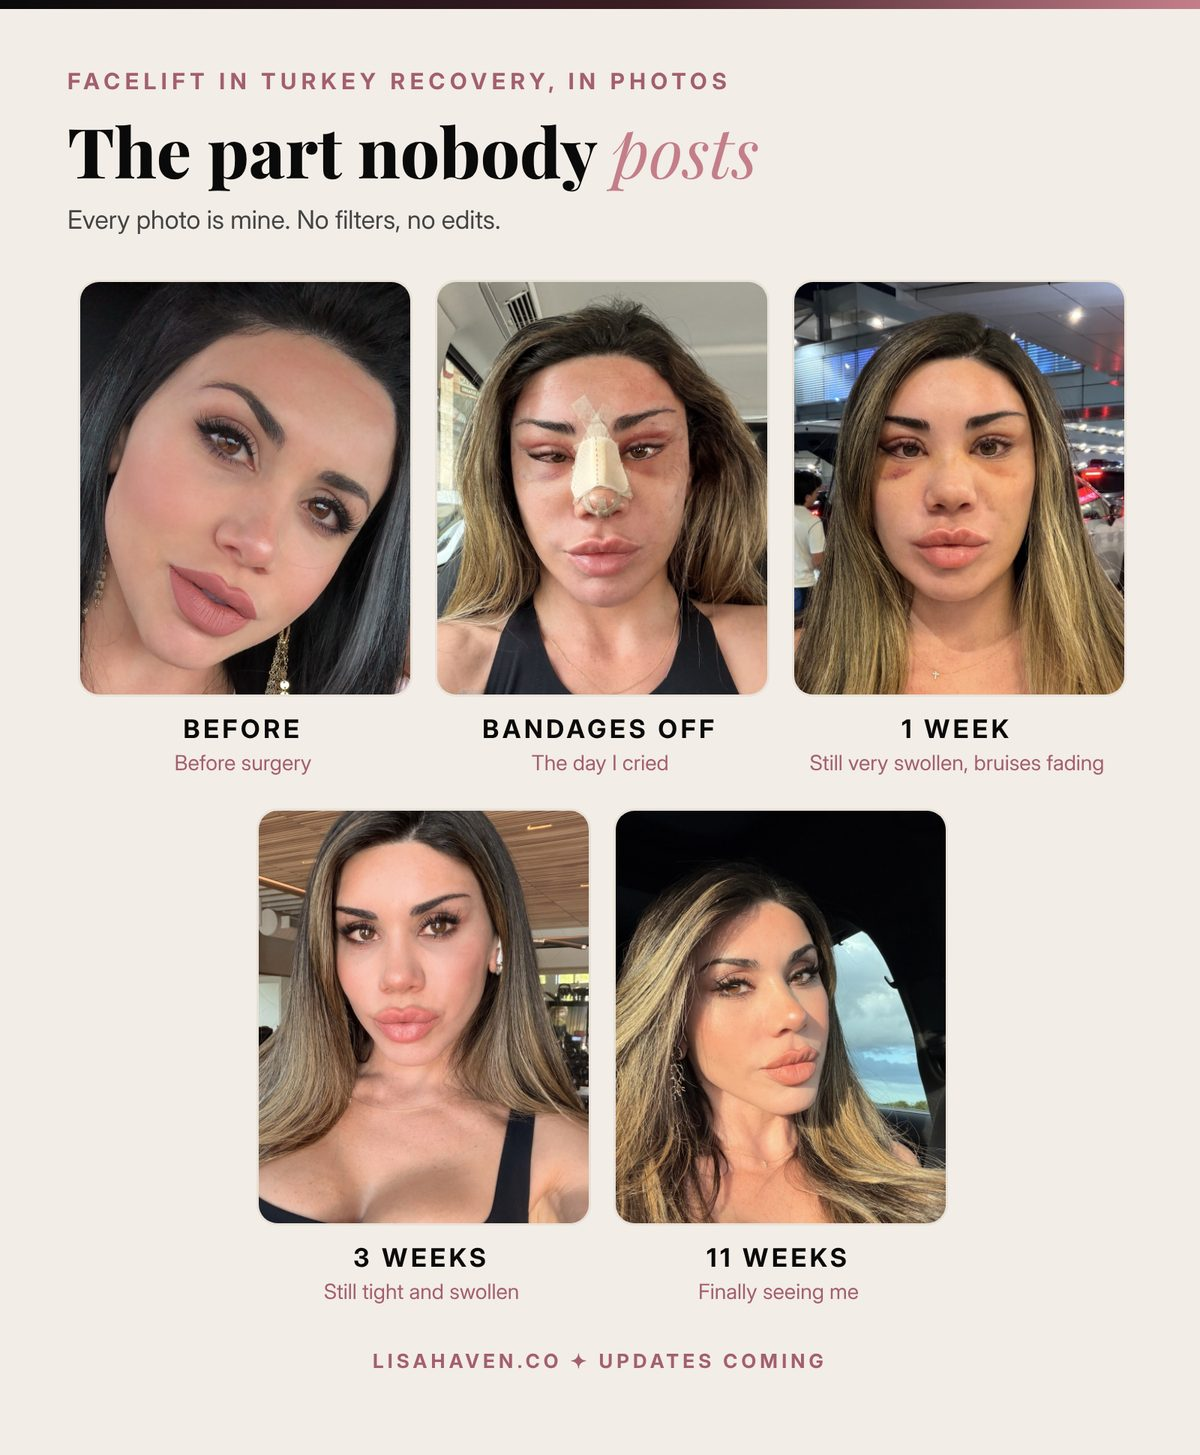
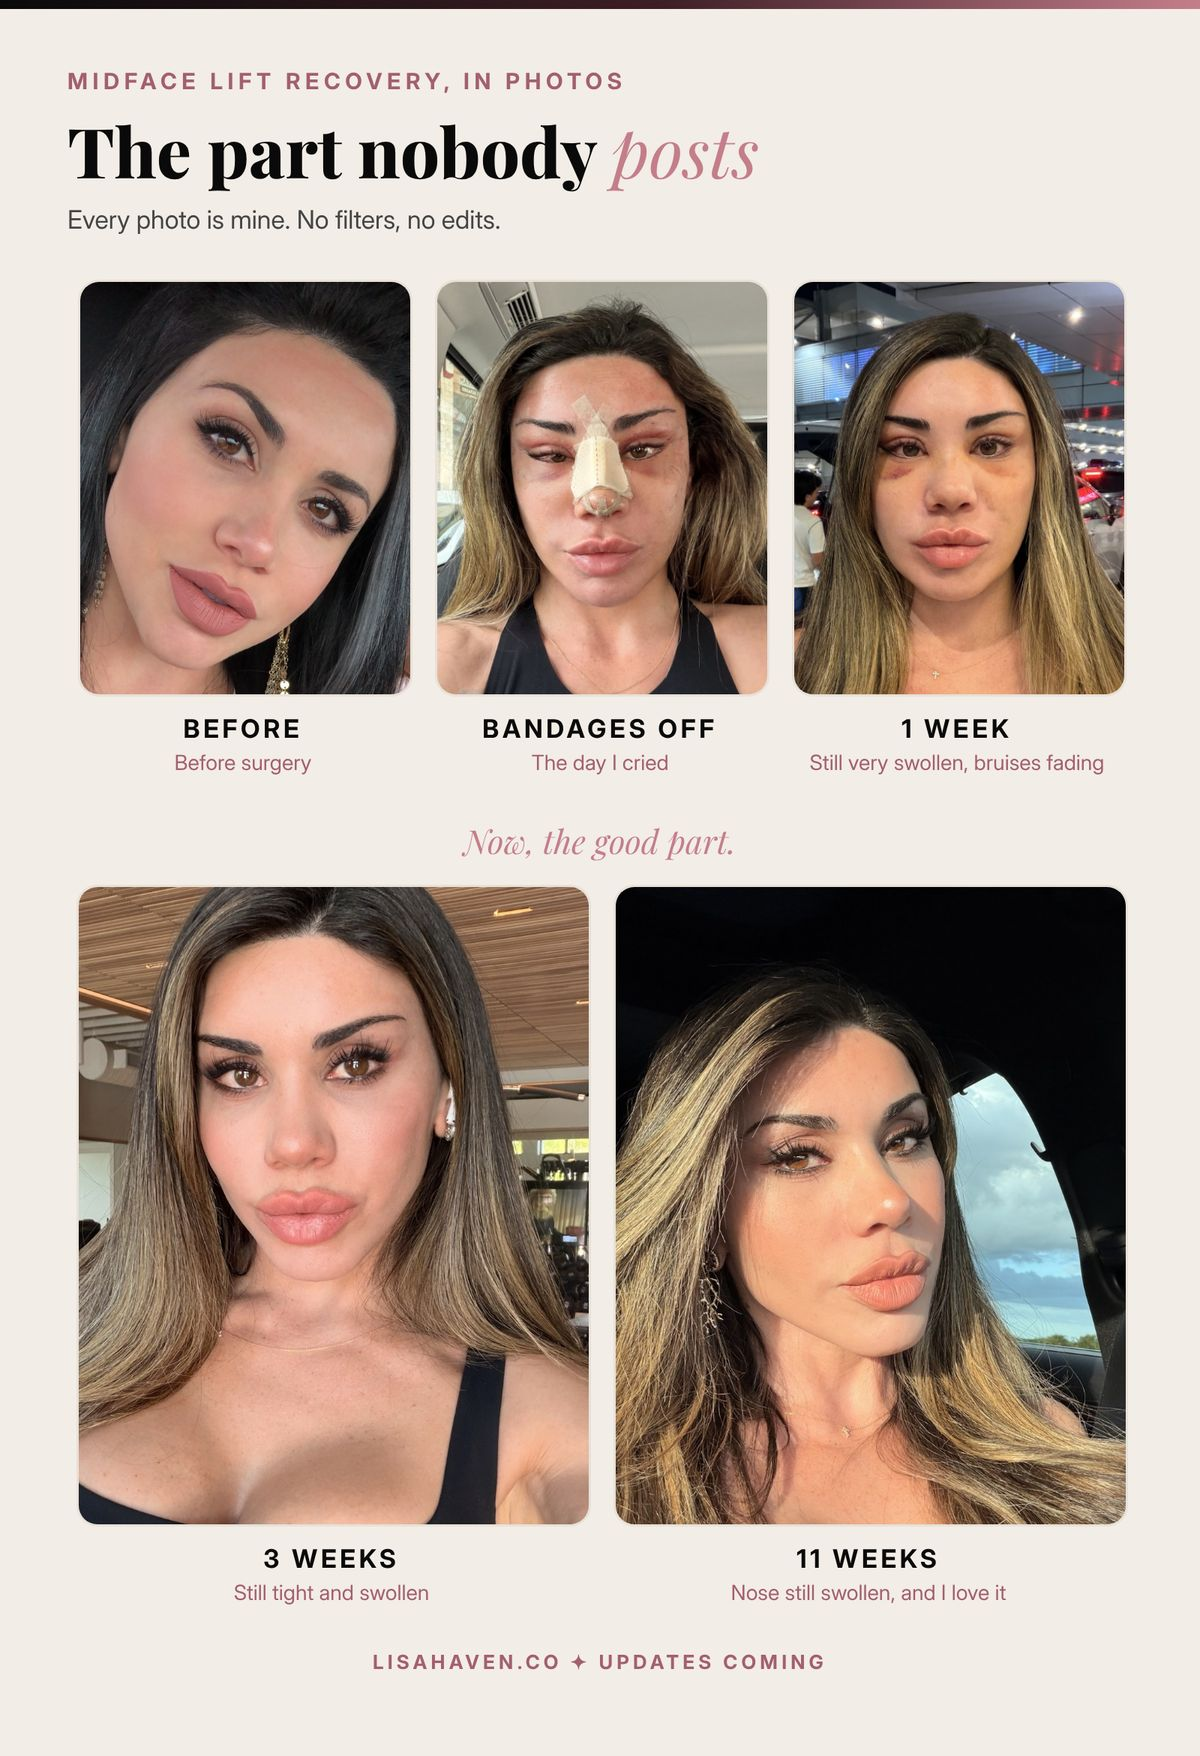
Midface lift post: bigger after photos, Halloween line, nose patience note; counter keeps retrying old counts
Claude-Session: https://claude.ai/code/session_0169LMnZAAYVJB72yBYjKfJr

diff --git a/_posts/2026-11-11-midface-lift-in-turkey-review.md b/_posts/2026-11-11-midface-lift-in-turkey-review.md
@@ -178,6 +178,8 @@ Surprisingly, my face did not hurt much. My neck was another story. Because of t
 
 <details style="margin:24px 0;"><summary onclick="this.style.display='none'" style="list-style:none;cursor:pointer;"><img src="/images/uploads/facelift-in-turkey-review-day-1-blurred.jpg" alt="Sensitive image: blurred photos from the day after my surgery. Tap to view." style="width:100%;height:auto;display:block;"></summary><img src="/images/uploads/facelift-in-turkey-review-day-1.jpg" alt="Day 1 after my midface lift in Turkey: my face taped and bandaged, and the stitches under my chin from the neck lift." style="width:100%;height:auto;display:block;"></details>
 
+Looking at these photos from the day after surgery, my first thought was: Halloween in August! Who needs a costume when I look like this? I could just show up, ready to go. I laughed about it on the outside, but inside, seeing myself like that was truly depressing.
+
 ### Day 3: the day I cried
 
 This was the day my bandages came off. My face was enormously swollen, my nose looked unrecognizable and 1 eye had crossed. I had never seen myself that way, and I truly believed something had gone wrong.
@@ -205,6 +207,8 @@ What carried me through was research. I read story after story from women who ha
 ### Month 3: finally, me
 
 Somewhere between 2 and a half and 3 months, I looked in the mirror and finally recognized the woman I had hoped to see. I am overjoyed.
+
+And this is still not the final result. At 11 weeks, my nose is still swollen. A nose can take 6 months to a full year to settle, especially a third surgery like mine, with everything that was rebuilt inside it. So I am practicing patience. As Dr. Vasfi reminds his patients all over his Instagram, trust the process. I truly cannot wait to see the final shape.
 
 ## My Honest Review at 3 Months
 
